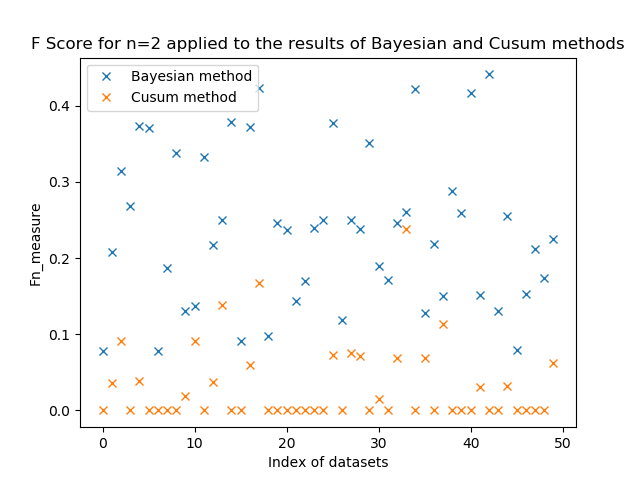
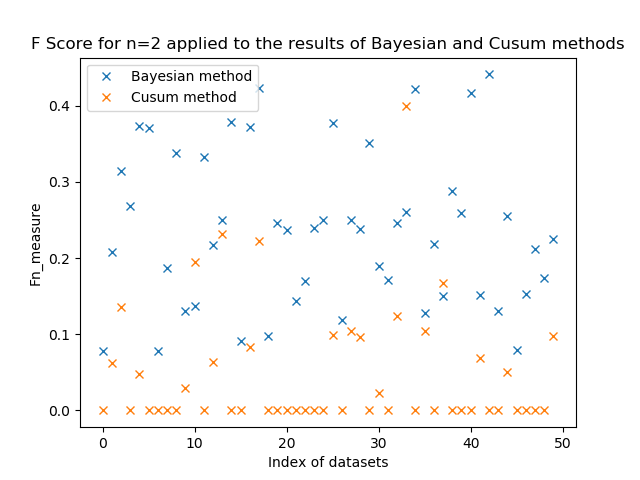
Correction of the F2_score formula and new plot

diff --git a/evaluation_detection.py b/evaluation_detection.py
@@ -4,7 +4,7 @@ import cusum_first_implementation as cusum
 import tools.evaluation as eval
 import matplotlib.pyplot as plt
 import numpy as np 
-import baysiancpdetection as baycpdc #To be removed (commented) if not needed (needs R)
+#import baysiancpdetection as baycpdc #To be removed (commented) if not needed (needs R)
 
 def evaluationDataSet(folder):
     file_csv=os.listdir(folder)
@@ -96,7 +96,7 @@ def Fn_score(n):
     Fn_cusum=[]
     for i in range(len(recallCusum)):
         if(recallCusum[i] != 0 or precisionCusum[i] != 0):
-            Fn_cusum.append((1+n*n)*(precisionCusum[i]*recallCusum[i])/(n*n*(precisionCusum[i]+recallCusum[i])))
+            Fn_cusum.append((1+n*n)*(precisionCusum[i]*recallCusum[i])/(n*n*precisionCusum[i]+recallCusum[i]))
         
         else:
             Fn_cusum.append(0)
